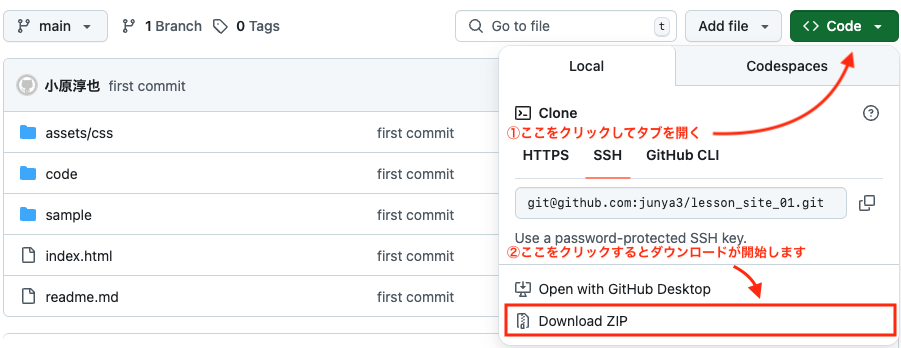
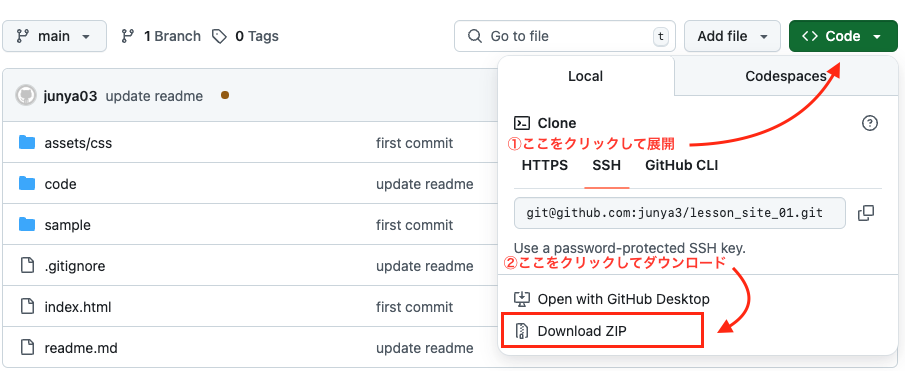
update image

diff --git a/readme.md b/readme.md
@@ -10,7 +10,7 @@ HTML,CSS のみを使用して簡単に Web サイトを構築することがで
 
 1. 下記の画像を参考にプロジェクトをダウンロードしてください。
 
-![イメージの説明](./code/desc/image.png)
+![alt text](image.png)
 
 2. ダウンロードしたファイルを解凍して、プロジェクトを vscode で開いてください。
 
